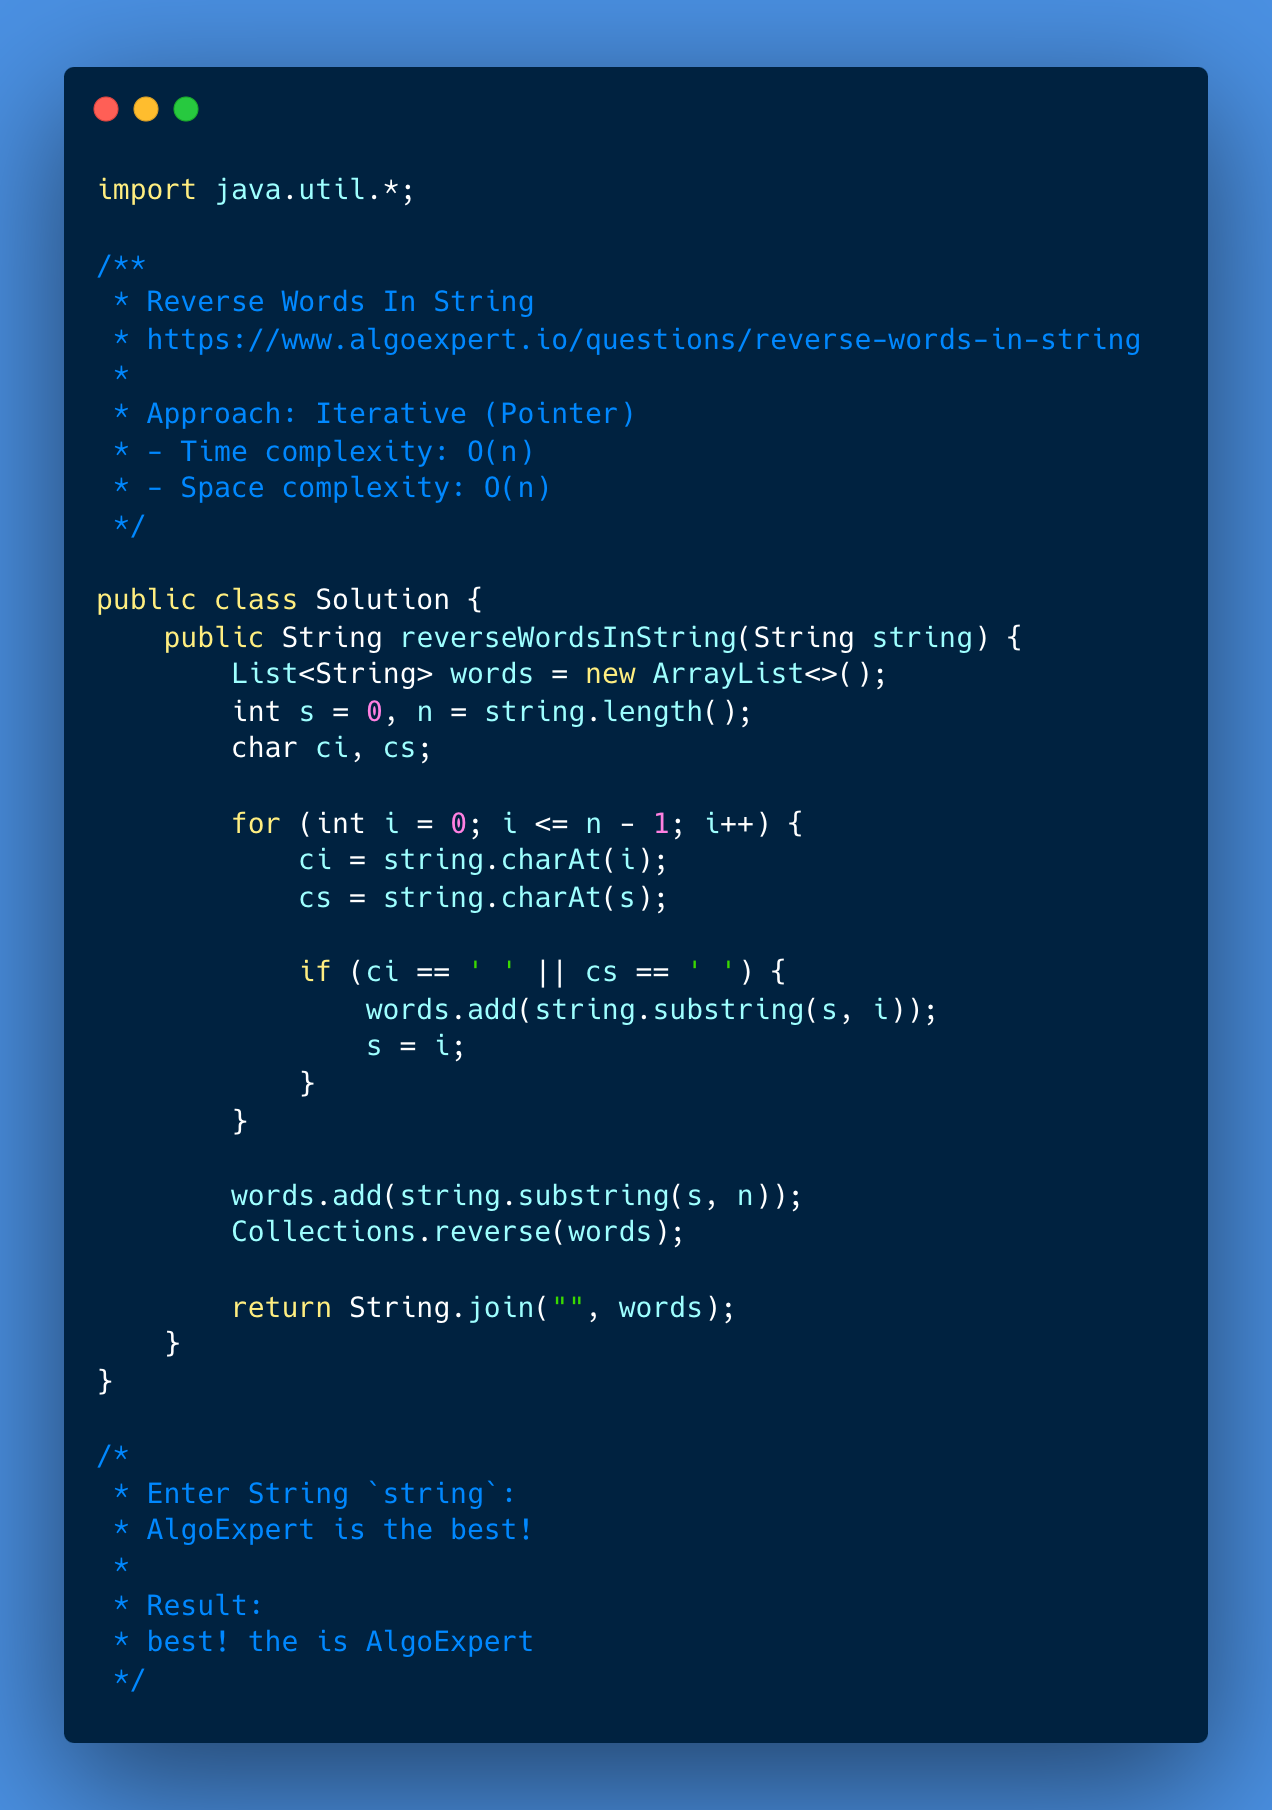
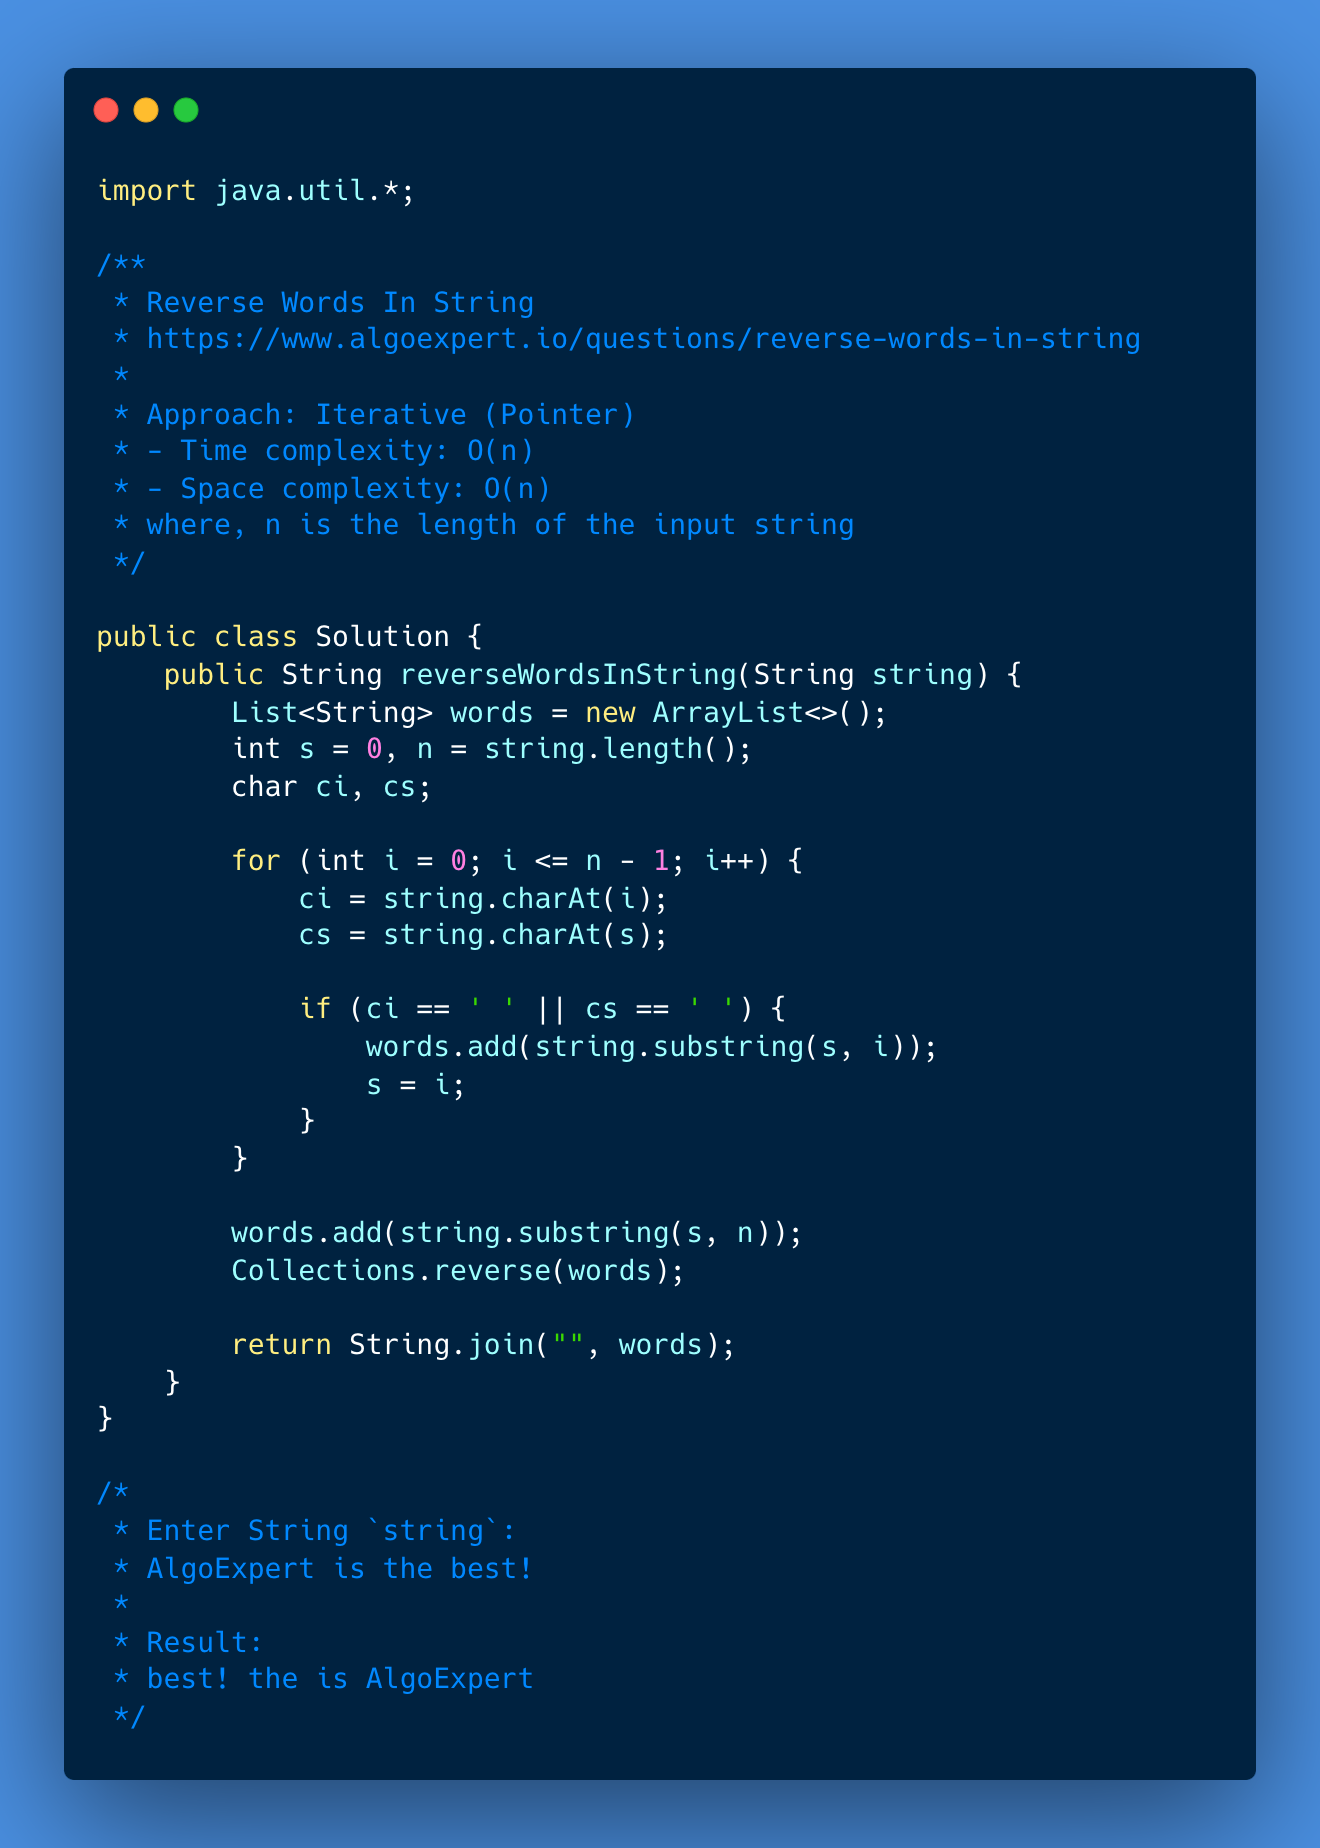
Solve Problem: Reverse Words In String

diff --git a/162-reverse-words-in-string/002-solution/Solution.java b/162-reverse-words-in-string/002-solution/Solution.java
@@ -1,0 +1,59 @@
+/**
+ * Reverse Words In String
+ * https://www.algoexpert.io/questions/reverse-words-in-string
+ * 
+ * Approach: Iterative (Two Pointers)
+ * - Time complexity: O(n)
+ * - Space complexity: O(n)
+ * where, n is the length of the input string
+ */
+
+public class Solution {
+    public String reverseWordsInString(String string) {
+        char[] characters = string.toCharArray();
+        int s = 0, e, n = characters.length;
+
+        reverseList(characters, s, n - 1);
+
+        for (int i = 0; i <= n - 1; i++) {
+            e = s;
+
+            while (e <= n - 1 && characters[e] != ' ') {
+                e++;
+            }
+
+            reverseList(characters, s, e - 1);
+            s = e + 1;
+
+            if (s >= n) {
+                break;
+            }
+        }
+
+        return new String(characters);
+    }
+
+    private char[] reverseList(char[] list, int start, int end) {
+        while (start < end) {
+            swap(list, start, end);
+            start++;
+            end--;
+        }
+
+        return list;
+    }
+
+    private void swap(char[] list, int i, int j) {
+        char temp = list[i];
+        list[i] = list[j];
+        list[j] = temp;
+    }
+}
+
+/*
+ * Enter String `string`:
+ * AlgoExpert is the best!
+ * 
+ * Result:
+ * best! the is AlgoExpert
+ */

diff --git a/162-reverse-words-in-string/002-solution/Main.java b/162-reverse-words-in-string/002-solution/Main.java
@@ -1,0 +1,22 @@
+import java.util.*;
+
+public class Main {
+    public static void main(String[] args) {
+        Scanner sc = new Scanner(System.in);
+
+        // Input
+        System.out.println("Enter String `string`: ");
+        String string = sc.nextLine();
+
+        // Solution
+        Solution solution = new Solution();
+        String result = solution.reverseWordsInString(string);
+
+        // Output
+        System.out.println();
+        System.out.println("Result:");
+        System.out.println(result);
+
+        sc.close();
+    }
+}

diff --git a/162-reverse-words-in-string/001-solution/Solution.java b/162-reverse-words-in-string/001-solution/Solution.java
@@ -7,6 +7,7 @@ import java.util.*;
  * Approach: Iterative (Pointer)
  * - Time complexity: O(n)
  * - Space complexity: O(n)
+ * where, n is the length of the input string
  */
 
 public class Solution {
